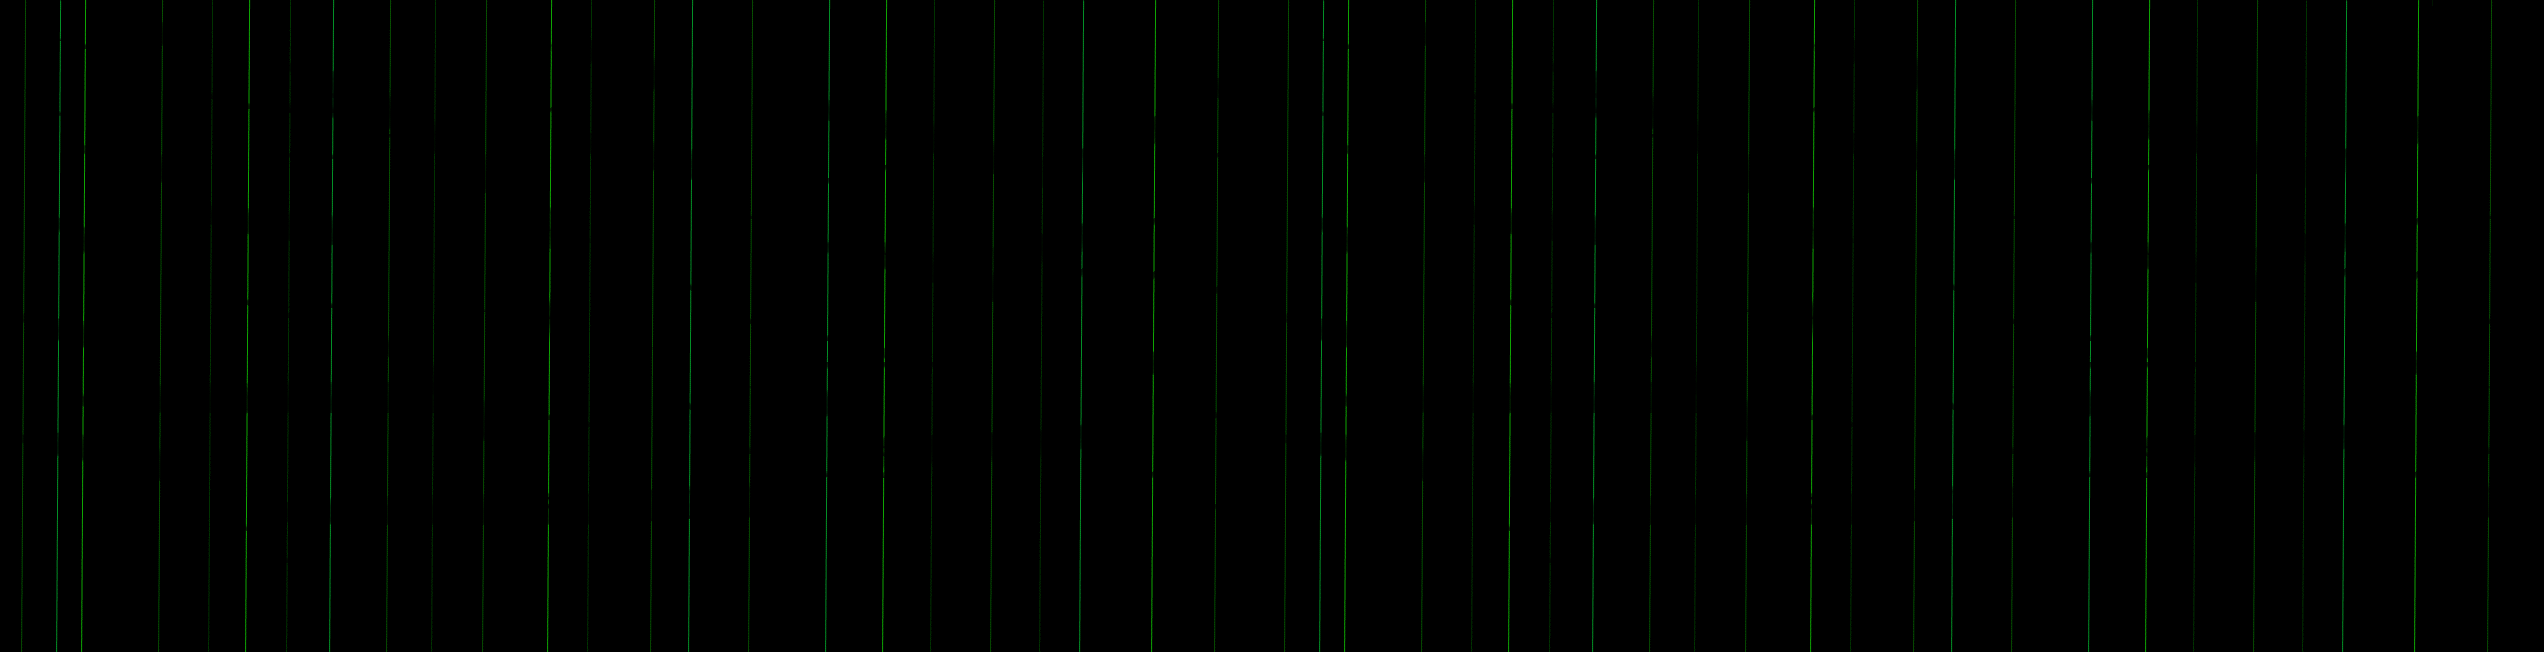
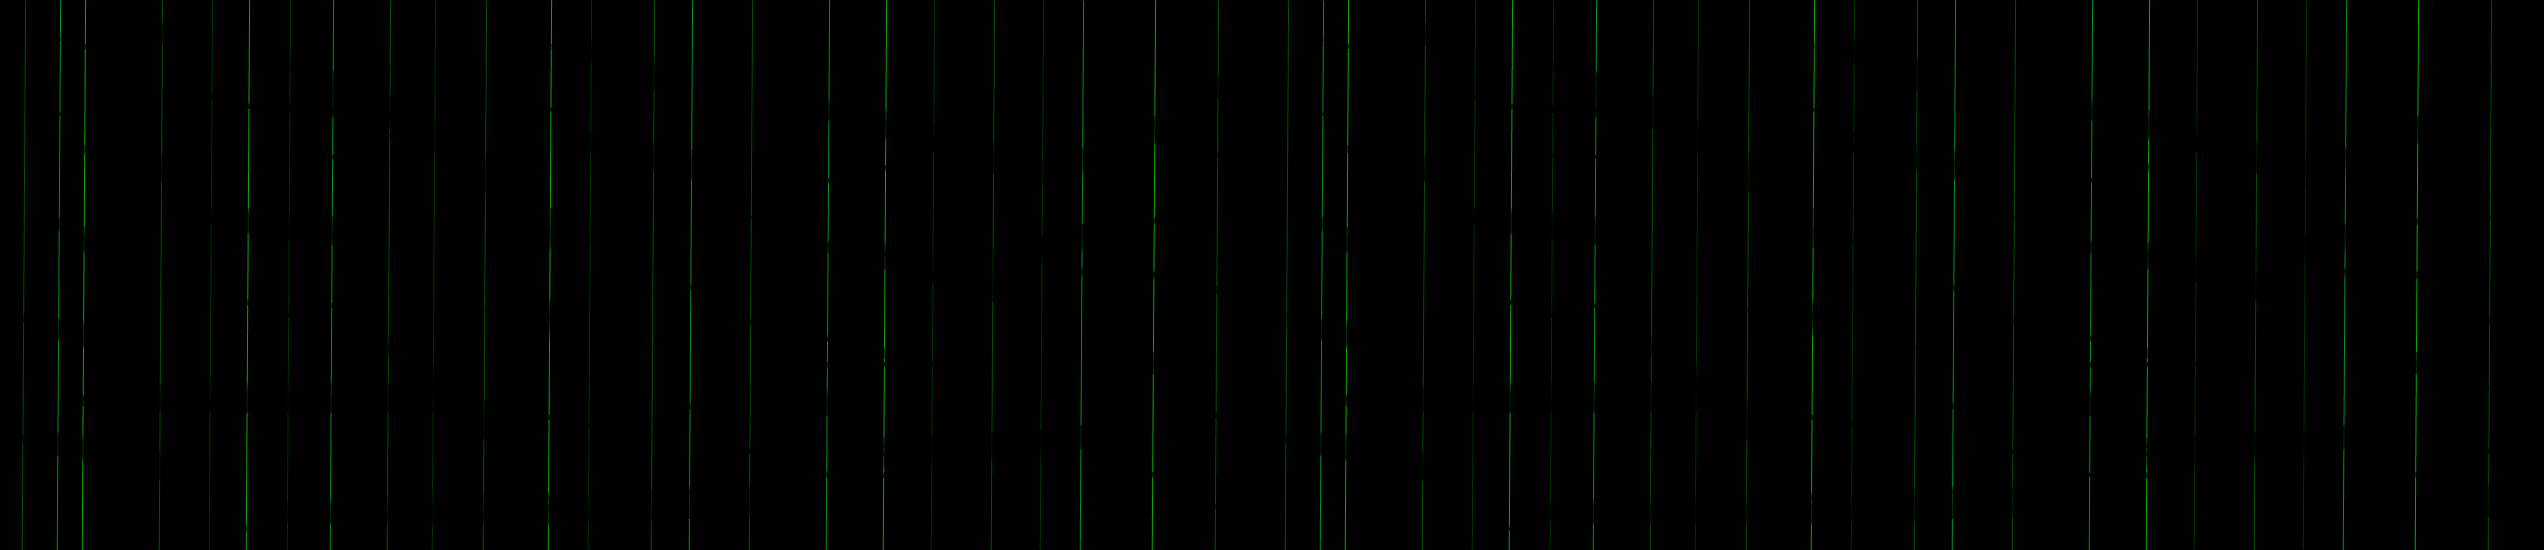
updated size of background

diff --git a/words/Scripts/objects/word.ts b/words/Scripts/objects/word.ts
@@ -6,49 +6,76 @@
         width: number;
         height: number;
         dx: number = 1;
+        nextItem: number = 0;
+        currentWord: string;
 
         category: string;
 
-        //foodWords = new String["apple", "potato", "onion", "pear", "rice", "bread", "beef", "cheese", "milk", "juice"];
-        //furnitureWords = new String["chair", "desk", "bookshelf", "sofa", "table", "lamp", "bed", "mirror", "carpet", "TV"];
-        //clothesWords = new String["dress", "shorts", "shirt", "skirt", "pants", "hat", "scarf", "suit", "tie", "socks"];
-        //animalsWords = new String["dog", "cat", "caw", "elephant", "sheep", "horse", "pig", "bear", "fox", "wolf"];
+         //word sets
+     foodWords: string[] = ["apple", "potato", "onion", "pear", "rice", "bread", "beef", "cheese", "milk", "juice"];
+
+     furnitureWords: string[] = ["chair", "desk", "bookshelf", "sofa", "table", "lamp", "bed", "mirror", "carpet", "TV"];
+     clothesWords: string[] = ["dress", "shorts", "shirt", "skirt", "pants", "hat", "scarf", "suit", "tie", "socks"];
+     animalsWords: string[] = ["dog", "cat", "caw", "elephant", "sheep", "horse", "pig", "bear", "fox", "wolf"];
+
+
 
         //CONSTRUCTOR --------------------------------------------------
         constructor() {
-            super("apple", "12px Consolas", "green");
+            super("placeholder", "30px Consolas", "green");
             this.width = this.getBounds().width;
             this.height = this.getBounds().height;
           //  this.regX = this.width * 0.5;
             //this.regY = this.height * 0.5;
             this.x = 848;
             this.y = 10;
-          //  this._reset();
+            this.determineNextWord();
+            this._reset();
         }
 
 
         //PRIVATE METHODS --------------------------------------------------------
+        //checks if word left the screen and if so calls functions to reset word to new word
         private _checkBounds(): void {
-            //check if island has left the screen
-            if (this.y > 480 + this.height) {
+            //check if word has left the screen
+            if (this.x < 0) {
+                this.determineNextWord();
                 this._reset();
             }
         }
 
-        private getWord(): string {
-            this.category = "food";
+
+        //determines the next word
+        private determineNextWord(): void {
+            //determine next collectible word
+            this.nextItem = Math.floor(Math.random() * (10 - 0 + 1) + 0);
+            this.currentWord = this.foodWords[this.nextItem];
+
+
+            //determine next antagonist word 
+            for (var antiWord; antiWord < 3; antiWord++) {
+                Math.floor(Math.random() * (10 - 0 + 1) + 0);
+            }
+
+        }
+
+
+        private getCategory(): string {
+            this.category = "category";
             return this.category;
         }
 
+        //resets the text of of the word and its positions
         private _reset(): void {
-            this.x = Math.floor(Math.random() * 640);// start island at random location
-            this.y = this.height;
+            this.text = this.currentWord;
+            this.y = Math.floor(Math.random() * 550);// start island at random location
+            this.x = 848;
         }
 
         //PUBLIC METHODS -----------------------------------------------------
         public update(): void {
             this.x -= this.dx;
-          //  this._checkBounds();
+           this._checkBounds();
         }
 
     }

diff --git a/words/Scripts/core/game.ts b/words/Scripts/core/game.ts
@@ -7,7 +7,9 @@
 /// <reference path="../typings/soundjs/soundjs.d.ts" />
 /// <reference path="../typings/preloadjs/preloadjs.d.ts" />
 
+/// <reference path="../config/wordsets.ts" />
 /// <reference path="../config/config.ts" />
+
 /// <reference path="../objects/background.ts" />
 /// <reference path="../objects/word.ts" />
 /// <reference path="../objects/truck.ts" />
@@ -42,21 +44,9 @@ var manifest= [
     { id: "againButton", src: "../../Assets/images/againButton.png" },
     { id: "back", src: "../../Assets/images/back_long.png" },
     { id: "truck", src: "../../Assets/images/truck.png" },
-    { id: "drinkButton", src: "../../Assets/images/drinkButton.png" },
-    { id: "eatButton", src: "../../Assets/images/eatButton.png" },
-    { id: "feedButton", src: "../../Assets/images/feedButton.png" },
-    { id: "getOnButton", src: "../../Assets/images/getOnButton.png" },
-    { id: "leftButton", src: "../../Assets/images/leftButton.png" },
-    { id: "rightButton", src: "../../Assets/images/rightButton.png" },
-    { id: "saveButton", src: "../../Assets/images/saveButton.png" },
-    { id: "screamButton", src: "../../Assets/images/screamButton.png" },
-    { id: "sleepButton", src: "../../Assets/images/sleepButton.png" },
+    { id: "emptyButton", src: "../../Assets/images/button183x82.png" },
     { id: "startButton", src: "../../Assets/images/startButton.png" },
-    { id: "swimButton", src: "../../Assets/images/swimButton.png" },
-    { id: "swimByButton", src: "../../Assets/images/swimByButton.png" },
     { id: "soundtrack", src: "../../Assets/audio/gameSound.m4a" },
-    { id: "tooth", src: "../../Assets/images/tooth.jpg" },
-    { id: "dragon", src: "../../Assets/images/dragon_1.jpg" },
     { id: "logo", src: "../../Assets/images/logo_small.png" },
     { id: "sound1", src: "../../Assets/audio/0831.wav" }
 ];

diff --git a/words/Scripts/states/game.ts b/words/Scripts/states/game.ts
@@ -10,6 +10,7 @@ module states {
         _dragon_cave: createjs.Bitmap;
         _truck: objects.Truck;
         _word: objects.Word;
+        _antiWord: objects.Word;
 
         //constructor
         constructor() {
@@ -29,8 +30,12 @@ module states {
             this.addChild(this._truck);
 
             //add words
-            this._word = new objects.Word();
+            this._word = new objects.Word();// collectibe word
             this.addChild(this._word);
+
+            //add words
+            this._antiWord = new objects.Word();// antogonist words
+            this.addChild(this._antiWord);
 
             //add all objects to the stage
             stage.addChild(this);

diff --git a/words/Scripts/states/menu.ts b/words/Scripts/states/menu.ts
@@ -16,7 +16,6 @@ module states {
         //private method
         //callback function that allows to respond to button click events
         private _buttonClicked(event: createjs.MouseEvent): void {
-
             createjs.Sound.play("soundtrack");
             //get the name of user
             name = (<HTMLInputElement>document.getElementById("txtName")).value;
@@ -42,8 +41,6 @@ module states {
 
             document.getElementById("txtName").style.display = "inline";
             console.log(name);
-
-
 
             this._introLabel = new objects.Label(" Do you want to play?", "40px Consolas", "#000000", 320, 260);
             this.addChild(this._introLabel);

diff --git a/words/index.html b/words/index.html
@@ -23,7 +23,7 @@
     <h1 id="gameTitle">WORDS</h1>
 
     <div id="game">
-        <canvas id="canvas" width="848" height="652"></canvas>
+        <canvas id="canvas" width="848" height="550"></canvas>
         <input id="txtName" type="text" />
     </div>
 
@@ -38,6 +38,7 @@
 
     <!-- Game Scripts SECTION -->
     <script src="Scripts/config/config.js"></script>
+    <script src="Scripts/config/wordSets.js"></script>
     <script src="Scripts/objects/background.js"></script>
     <script src="Scripts/objects/truck.js"></script>
     <script src="Scripts/objects/word.js"></script>

diff --git a/words/Scripts/config/wordSets.ts b/words/Scripts/config/wordSets.ts
@@ -1,0 +1,9 @@
+module config {
+
+    //word sets
+    export var foodWords: string[] = ["apple", "potato", "onion", "pear", "rice", "bread", "beef", "cheese", "milk", "juice"];
+
+    export var furnitureWords: string[] = ["chair", "desk", "bookshelf", "sofa", "table", "lamp", "bed", "mirror", "carpet", "TV"];
+    export var clothesWords: string[] = ["dress", "shorts", "shirt", "skirt", "pants", "hat", "scarf", "suit", "tie", "socks"];
+    export var animalsWords: string[] = ["dog", "cat", "caw", "elephant", "sheep", "horse", "pig", "bear", "fox", "wolf"];
+}

diff --git a/words/Content/game.css b/words/Content/game.css
@@ -5,7 +5,7 @@
 
 #game {
     width: 852px;
-    height: 656px;
+    height: 554px;
     margin: 0 auto;
     position: relative;
 }
